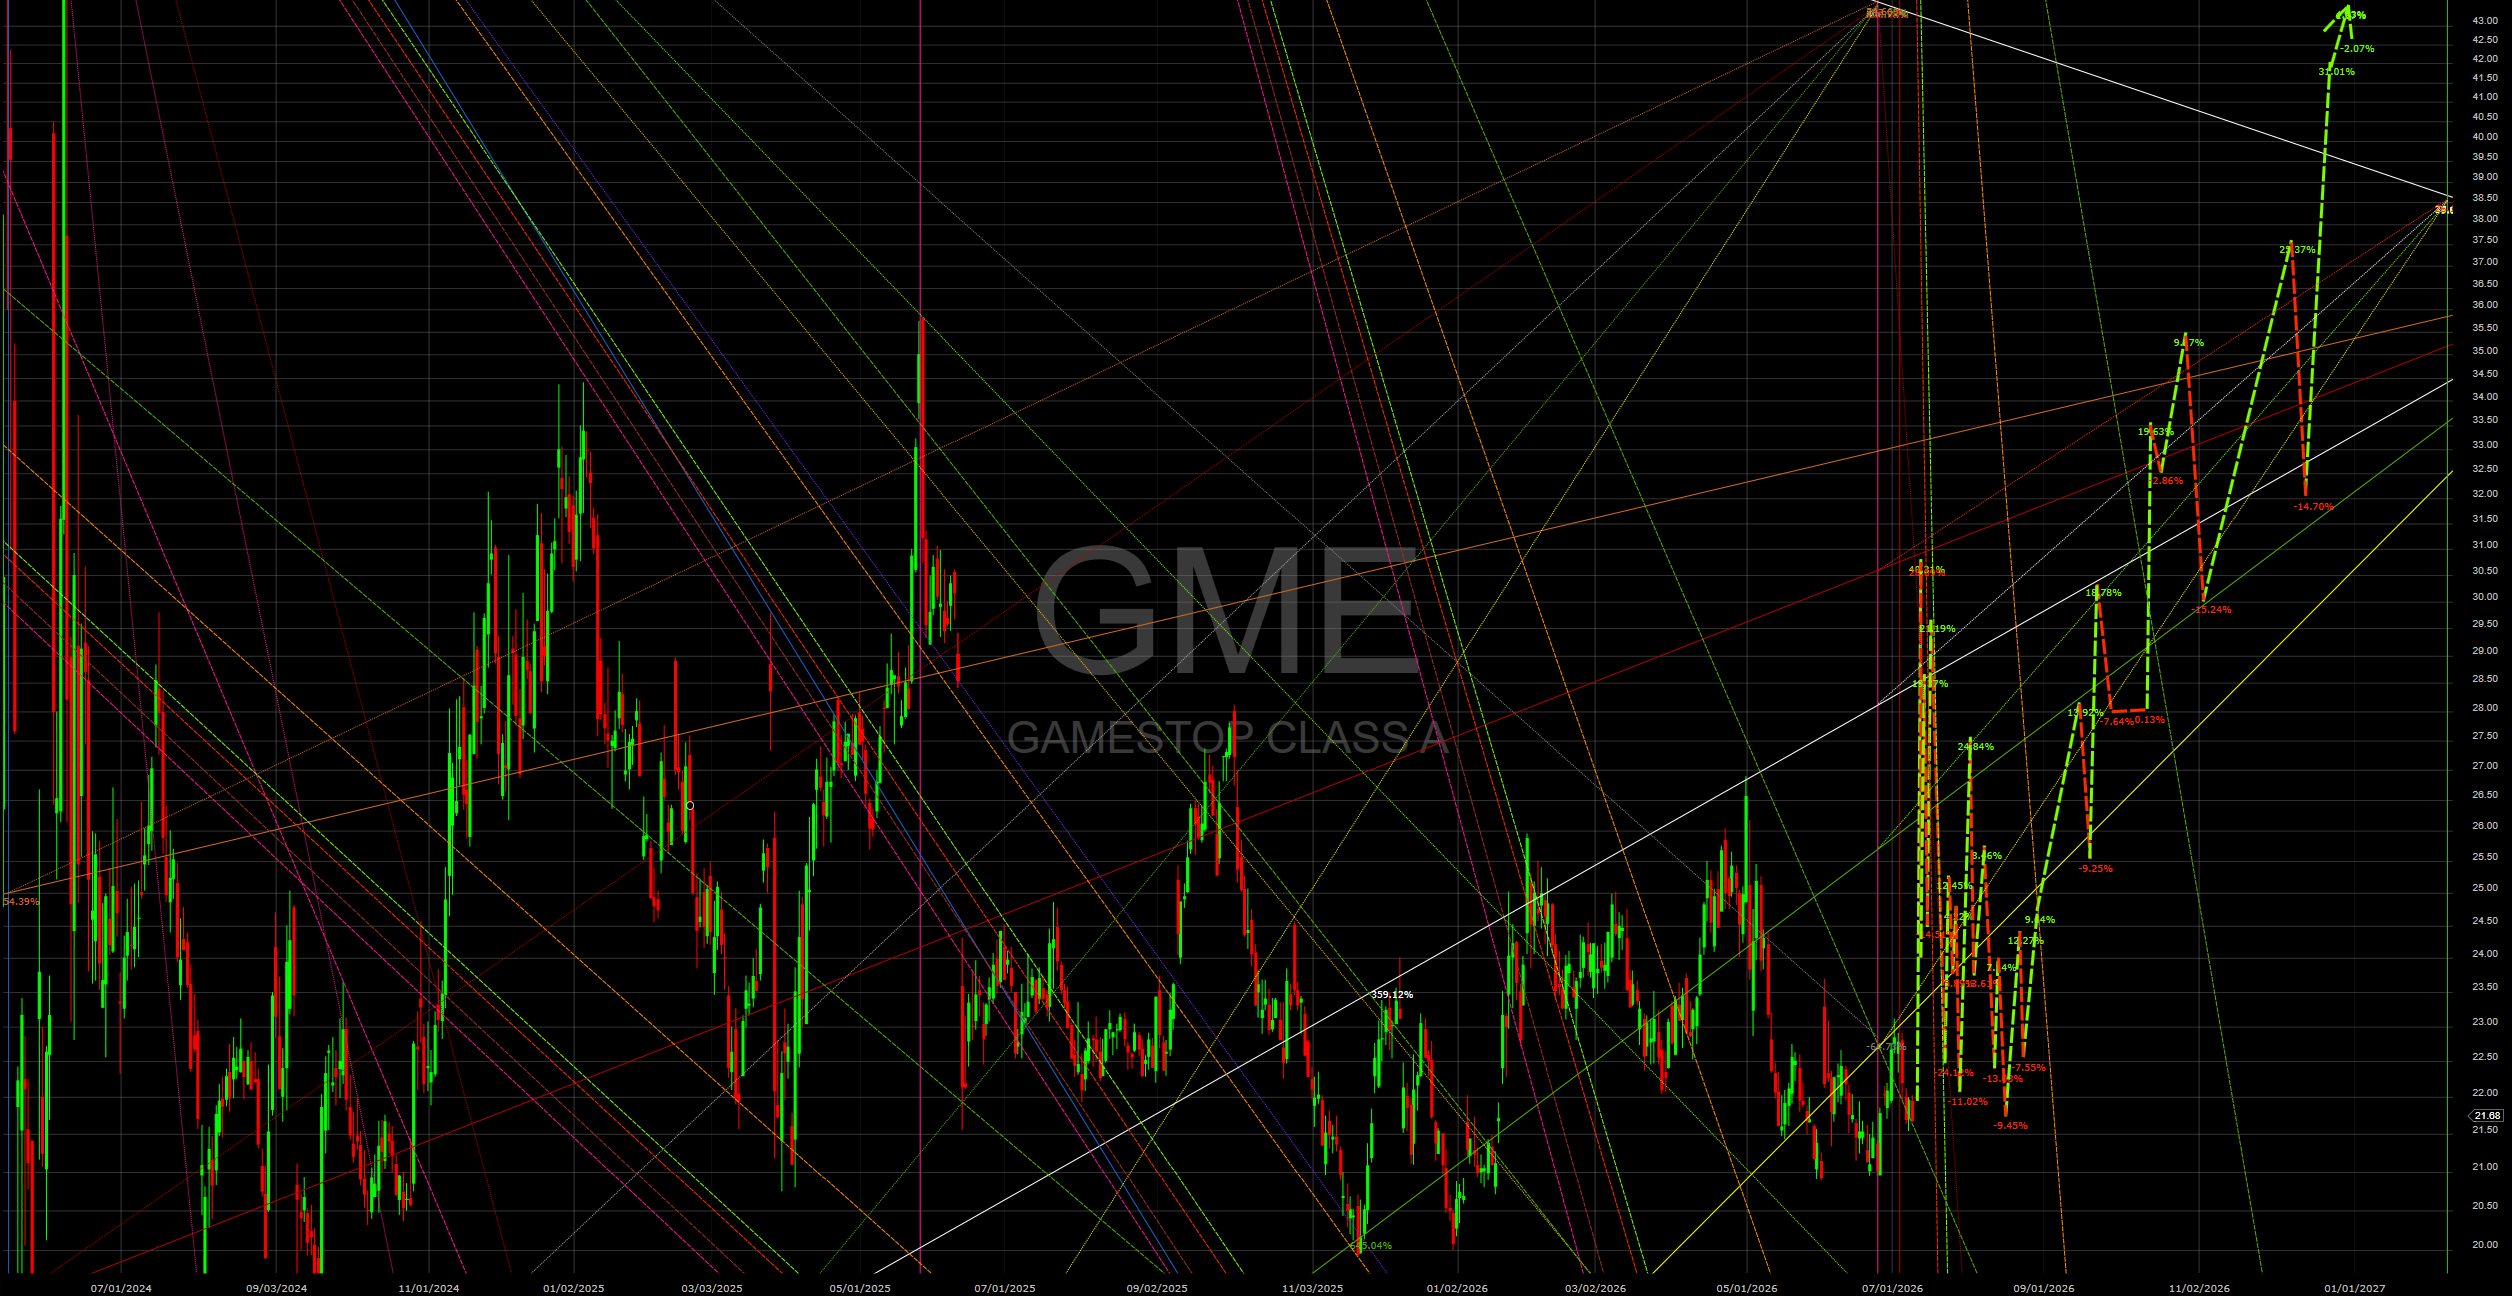
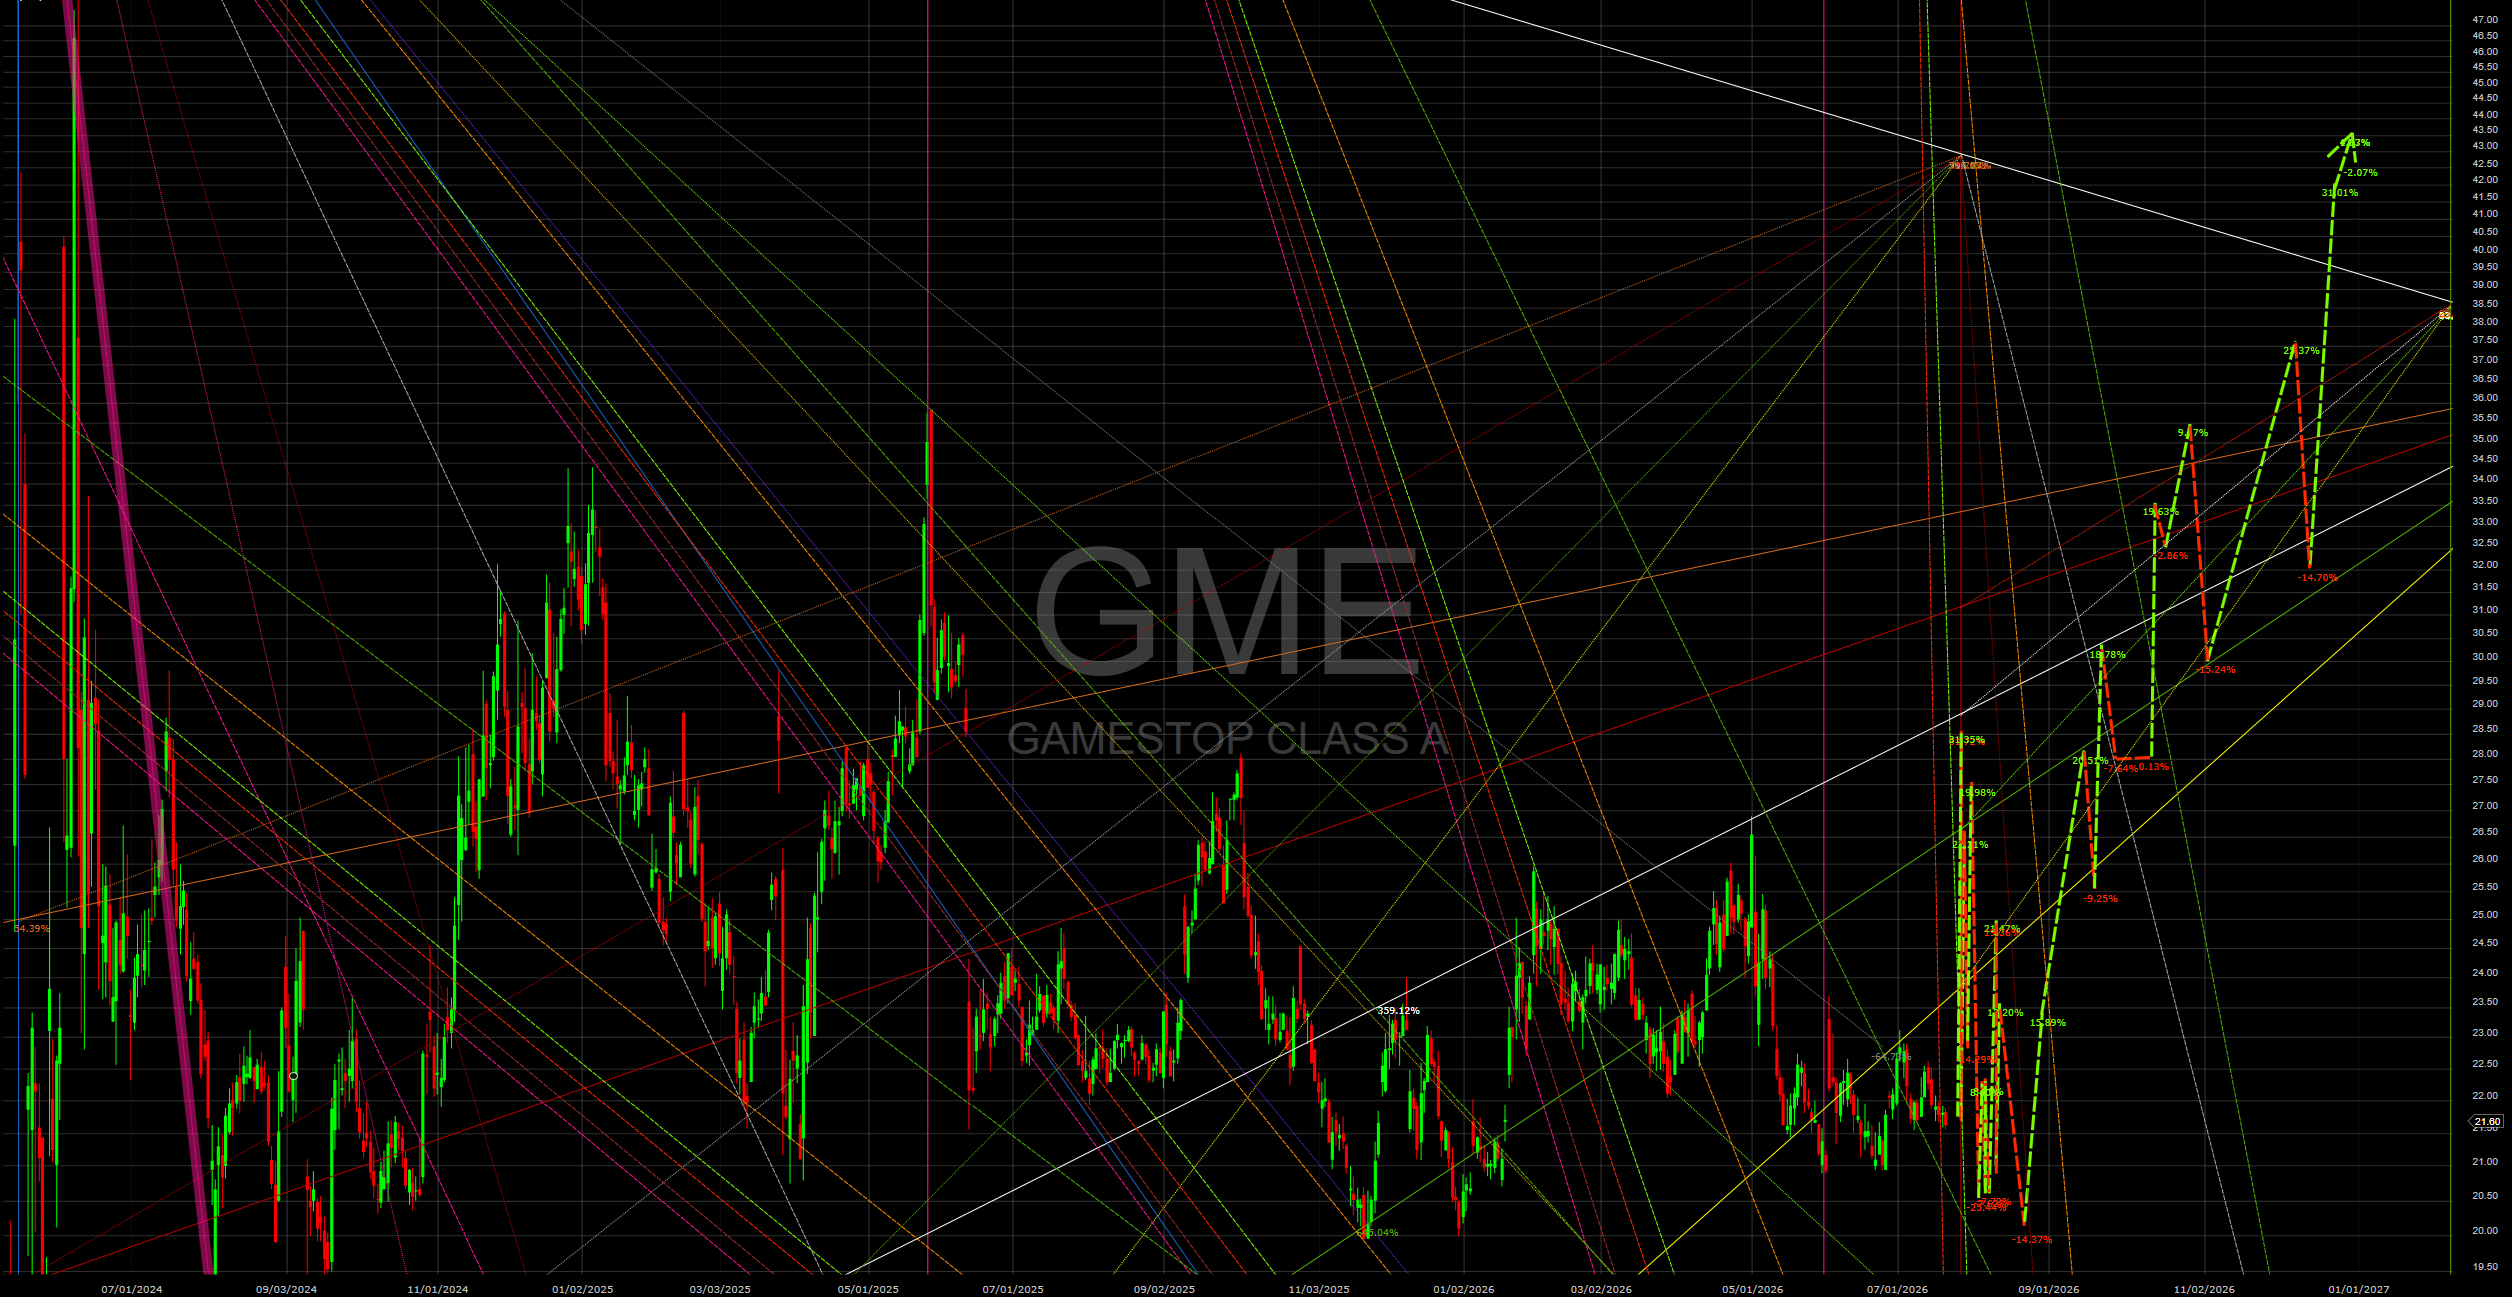
Updating.

diff --git a/README.md b/README.md
@@ -54,6 +54,8 @@ Using a platform like TradingView you can place one end of a line at these point
 
 On the Log charts you can see structure lines coming from the SLNs and terminate at what I believe is the floor for this series ~$10. Meanwhile the cycle peaks create a fan through the log charts that when terminated at ~$.20 at the remaining cycles dates also create structure lines.
 
+My thoughts are intra-series SLNs shape the day to day while previous series SLNs define boundaries for current series cycles. This can be seen from the previous series SLNs (11/2013, 3/2020) into this current series, and how this current series SLNs (6/2020, 6/2023, 5/2025, 7/2026) constrain the chart into the next series (2027-2032).
+
 I posit that a non-manipulated stock would not exhibit such level of structure and for what seems to predate the 1/21 sneeze.
 
 
@@ -72,26 +74,26 @@ Algo based timeline and approximate price: ( only rough estimates and subject to
 |4 	| 7/1 	|||22.75||
 |20 | 7/7 	|||22.89||
 |38	| 7/8 	|||22.11||
-|1	| 7/20 	|30||||
-|2	| 7/20 	|23.5||||
-|3	| 7/21 	|27.9|Mid day|||
-|13	| 7/22 	|24.5||||
-|17-18	| 7/23 	|28.5||||
-|19-20	| 7/24 	|28.75||||
-|23	| 7/28 	|21.75||||
-|24	| 7/29 	|24||||
-|25	| 7/30 	|22.50|May drop to 22.25|||
-|26	| 7/31 	|24.25||||
-|27	| 8/4 	|22.5|||||
-|28	| 8/5 	|26.5|May be a highly volatile day, slams down to 22.5 by next day. SLN 5 forms|||
-|	| 8/6 	|22.5||||
-|	| 8/10 	|25||||
-|	| 8/13 	|22||||
-|	| 8/14 	|23.5||||
-|	| 8/18 	|21.5|Last best buy. Only up trend from here. Doubling by Jan|||
-|	| 8/21 	|24||||
-|	| 8/24 	|22.5||||
-|32 | 	8/28|24.75|Possible jump to 27|||
+|1	| 7/28 	|28.5||||
+|2	| 7/28 	|23||||
+|3	| 7/29 	|26.5|Briefly|||
+|13	| 7/30 	|22.5|Early|||
+|17-18	| 7/30 	|27||||
+|19-20	| 7/31 	|27.25|Friday. 25 at close|||
+|23	| 8/4 	|20.5||||
+|24	| 8/5 	|22.25||||
+|25-26	| 8/6 	|20.75|22 at close|||
+|27	| 8/7 	|20.75|Friday||||
+|28	| 8/11 	|24.75|May be a highly volatile day, 21.75 by close. SLN 1 forms for next series|||
+|	| 8/12 	|23.5||||
+|	| 8/13 	|21.25|May be a highly volatile day|||
+|	| 8/14 	|21.15|Friday|||
+|	| 8/19 	|20|May drop to 19.25 at close. Last best buy. Only up trend from here. Doubling by Jan|||
+|	| 8/20 	|21||||
+|	| 8/21 	|20||||
+|	| 8/24 	|22.25||||
+|	| 8/25 	|21.25|Possibly 20.50 midday|||
+|32 | 	8/28|23.35|Friday. Possible jump to 25 early|||
 |	| 9/3 	||Up|||
 |	| 9/9 	||Up|||
 |33 | 	9/15|28||||
@@ -122,11 +124,19 @@ Algo based timeline and approximate price: ( only rough estimates and subject to
 
 If they repeat again... well I guess 'we'll see'. 
 
-## Next Series Prediction
+## Previous Series SLNs
 
 Swap Line Nexus data to repro yourself:
 
-* SLN 1: 8/3/2026 @ $200.00
+* SLN 1: 11/14/2013 @ $99.30
+* SLN 2: 3/27/2020 @ $29.80
+
+## Next Series Prediction
+
+Swap Line Nexus data to repro yourself: 
+This series will dial in as data forms.
+
+* SLN 1: 8/11/2026 @ $200.00
 * SLN 2: 1/30/2028 @ $133.50
 * SLN 3: ~6/10/2030 @ $89.50
 * SLN 4: ~12/30/2031 @ $66.50